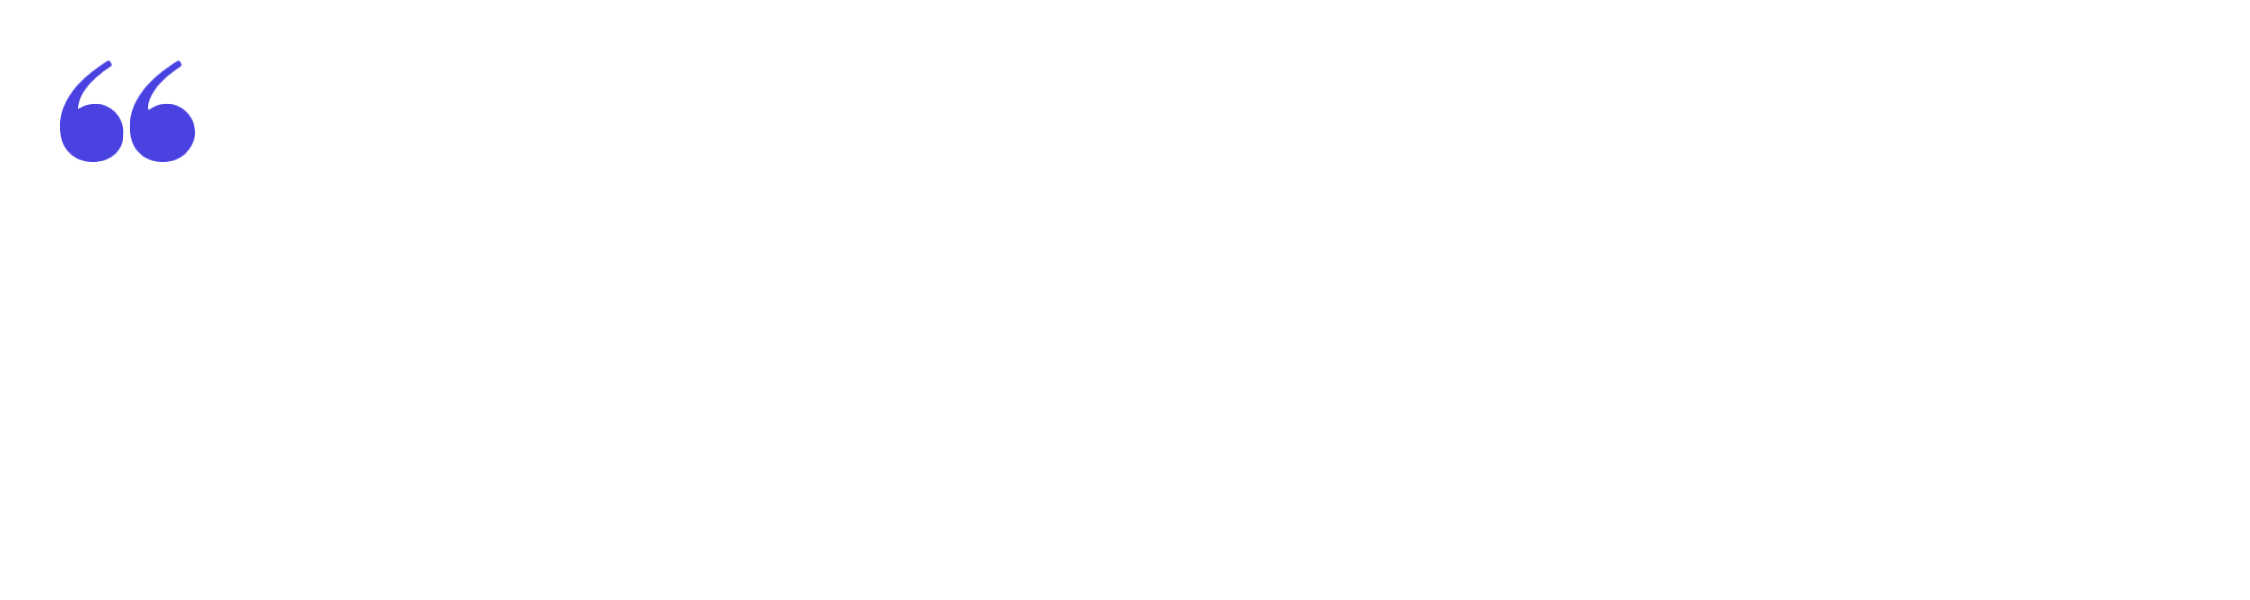
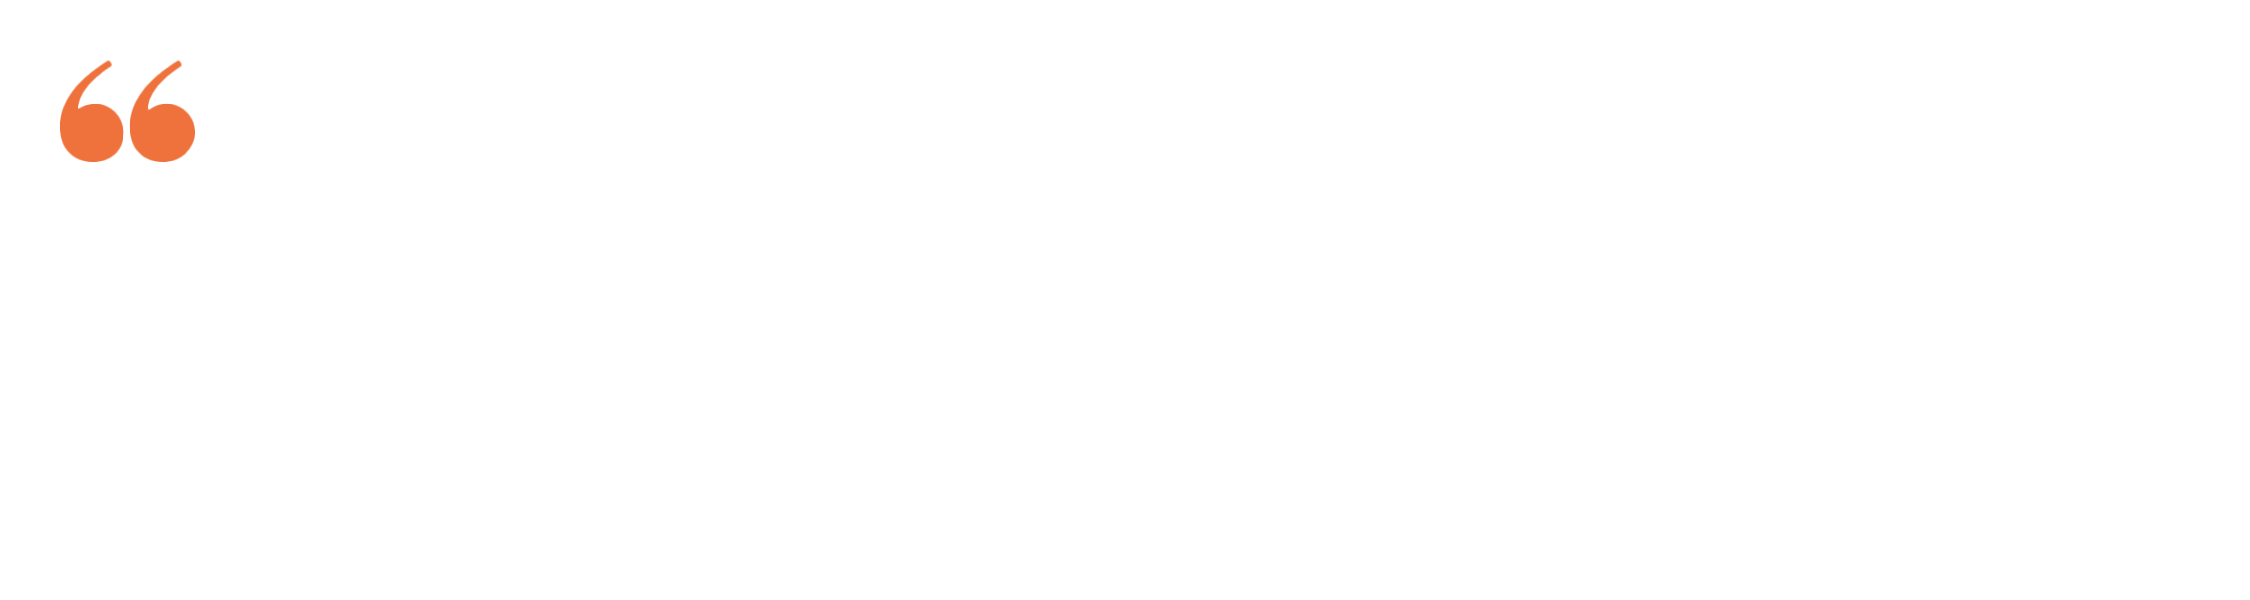
bug fix change style

Changed region(s): [[0.0, 0.09, 0.0933, 0.27]]

diff --git a/Screens/OnBoarding.js b/Screens/OnBoarding.js
@@ -13,7 +13,7 @@ const OnBoarding = props => {
     const scrollX = useRef(new Animated.Value(0)).current;
     const slidesRef = useRef(null);
     const optionData = useSelector((state) => state.settings.settings.onenergy_option);
-
+console.log(colors)
     const viewableItemsChanged = useRef(({viewableItems}) => {
         try {
             setCurrentIndex(viewableItems[0].index);
@@ -47,7 +47,7 @@ const OnBoarding = props => {
             <FastImage style={styles.topImage} resizeMode="cover" source={images[currentIndex]} />
             <View style={styles.bottomSlides}>
                 <FastImage style={styles.imageLeaves} source={require('../assets/images/leaves.png')} resizeMode="contain" />
-                <View style={styles.topPagerView}>
+                <View style={[styles.topPagerView, {backgroundColor: colors.primaryButtonBg}]}>
                     <Text style={[global.textItemSubtitle, {color: colors.bodyFrontBg}]}>{currentIndex + 1} of {optionData.feature_slider.length}</Text>
                 </View>
                 <FlatList
@@ -81,7 +81,7 @@ const OnBoarding = props => {
                 <TouchableOpacity
                     onPress={scrollTo}
                 >
-                    <View style={{width:windowWidth-30, backgroundColor: '#1634ea', justifyContent:"center", alignItems:"center", borderRadius:15, padding:20}}>
+                    <View style={{width:windowWidth-30, backgroundColor: colors.primaryButtonBg, justifyContent:"center", alignItems:"center", borderRadius:15, padding:20}}>
                         <Text style={{color: '#ffffff', fontFamily: 'MontserratAlternates-SemiBold', fontSize:scale(16), fontWeight:'bold'}}>{currentIndex===0?'Get Started':'Continue'}</Text>
                     </View>
                 </TouchableOpacity>
@@ -95,7 +95,7 @@ const OnBoarding = props => {
                             alignItems: "center",
                             padding: 20
                         }}>
-                            <Text style={{color: '#1634ea', fontFamily: 'MontserratAlternates-Regular', fontSize: scale(16)}}>Create
+                            <Text style={{color: colors.secondaryButtonColor, fontFamily: 'MontserratAlternates-Regular', fontSize: scale(16)}}>Create
                                 an account</Text>
                         </View>
                     </TouchableOpacity>
@@ -109,7 +109,7 @@ const OnBoarding = props => {
                             alignItems: "center",
                             padding: 20
                         }}>
-                            <Text style={{color: '#1634ea', fontFamily: 'MontserratAlternates-Regular', fontSize: scale(16)}}>Skip for now</Text>
+                            <Text style={{color: colors.secondaryButtonColor, fontFamily: 'MontserratAlternates-Regular', fontSize: scale(16)}}>Skip for now</Text>
                         </View>
                     </TouchableOpacity>
                 }
